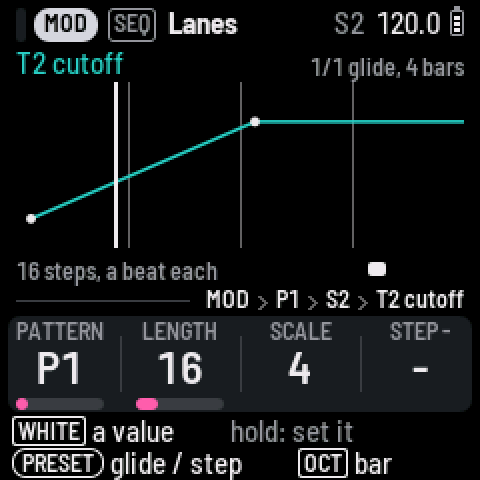
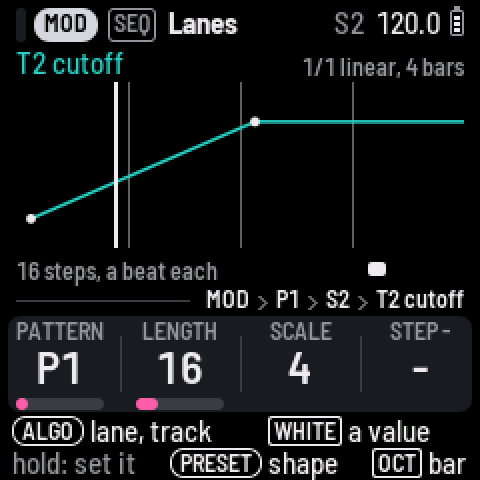
MOD: lane shapes replace glide / step (the spec's Next): step, linear (was glide), ease in, ease out, smooth. In the lane's pat byte (pattern.h LANE_SHAPE, two bits beside LANE_GLIDE: no format change; a lane saved before is linear, its glide; project.c's check lets the bits through). Played per blo

Changed region(s): [[0.0, 0.8438, 0.9688, 1.0], [0.625, 0.0938, 0.8438, 0.1875]]

diff --git a/app/pages.c b/app/pages.c
@@ -334,7 +334,7 @@ static const char *const ACTION_NAME[NACTIONS] = {
     "CLEAR", "ROTATE", "PASTE", "COPY TO EMPTY", "CLEAR BAR", "COPY SOUND", "PASTE SOUND", "COPY DRUM", "PASTE DRUM",
     "COPY SCENE", "PASTE SCENE", "DUPLICATE SLOT", "KIT FILTER", "SHIFT NOTES", "LARGE TYPE", "CC IN",
     "MOD VIEW", "CPU", "PROJ 1", "PROJ 2", "PROJ 3", "LANE", "REMOVE LANE", "CLEAR LANE", "TRACK", "PAGE", "KNOB",
-    "ADD LANE", "LEARN", "GLIDE / STEP", "TARGET TRACK", "TARGET PAGE", "TARGET KNOB", "LEARN TARGET", "FX I", "FX II", "EXTRA 1", "EXTRA 2", "EXTRA 3", "EXTRA 4"};
+    "ADD LANE", "LEARN", "SHAPE", "TARGET TRACK", "TARGET PAGE", "TARGET KNOB", "LEARN TARGET", "FX I", "FX II", "EXTRA 1", "EXTRA 2", "EXTRA 3", "EXTRA 4"};
 _Static_assert(NPROJ == 3, "GLO's list: an action a slot (A_PROJ1..A_PROJ3)");
 static const char *const CLEAR_WHAT[3] = {"notes", "locks", "notes and locks"};
 /* a pick ALGORITHM sets at once (a setting: SEL only leaves the list), as against a choice SEL then carries out */
@@ -1488,6 +1488,7 @@ static int mod_pat_now(void)
     return m ? (m - 1) % NPATT : ui.mod_pat % NPATT;
 }
 static int mod_none(void) { return !pats.scene_mod[cur_scene()]; }   /* the scene's MOD pattern "-": no lanes shown */
+static const char *const LANE_SHAPE_NAME[NLS] = {"step", "linear", "ease in", "ease out", "smooth"};   /* (LS_*) */
 static int mod_lanes_now(uint8_t *ix) { return mod_none() ? 0 : mod_lanes(pats.lane, mod_pat_now(), ix); }
 /* the step KNOB 4 sets with none held: the one last tapped on the lane picked (-1: none, or the lane or the length
  * changed since) */
@@ -2801,7 +2802,7 @@ static void page_footer(char *t)
                  : mod_none() ? "KNOB 1 a MOD pattern for this scene"
                  : mod_lane_now() < 0 ? "SEL add a lane|LEARN: SEL, then turn a knob"
                  : ui.held ? "KNOB 4 the step's value|SEL clear it"
-                 : "WHITE a value|hold: set it|PRESET glide / step|OCT bar");
+                 : "WHITE a value|hold: set it|PRESET shape|OCT bar");
         break;
     case P_THROWS:
         s_cat(t, "KEYS throw: low drums, high melodic|REC held: record");
@@ -3463,7 +3464,7 @@ static void list_mod(void)
         list_add("NO LANES YET", "add one below", LK_NOTE, 0);
     for (int i = 0; i < n; i++) {                    /* "T2 cutoff, glide" */
         mod_tgt_name(lane_mod_tgt(&pats.lane[ix[i]]), pats.lane[ix[i]].param, t);
-        s_cat(s_cat(t + s_len(t), ", "), lane_glide(&pats.lane[ix[i]]) ? "glide" : "step");
+        s_cat(s_cat(t + s_len(t), ", "), LANE_SHAPE_NAME[lane_shape(&pats.lane[ix[i]])]);
         list_add(MOD_ROW[i], t, LK_ACTION, A_MOD_LANE);
     }
     if (l >= 0) {                                    /* "this lane: 2, T2 cutoff" (the heads' face has no middle dot) */
@@ -3472,7 +3473,7 @@ static void list_mod(void)
         mod_tgt_name(lane_mod_tgt(L), L->param,
                      s_cat(num_s((uint32_t)ui.mod_lane % NMODL + 1u, s_cat(th, "this lane: ")), ", "));
         list_head(th);
-        list_add(ACTION_NAME[A_MOD_KIND], lane_glide(L) ? "glide" : "step", LK_PICK, A_MOD_KIND);
+        list_add(ACTION_NAME[A_MOD_KIND], LANE_SHAPE_NAME[lane_shape(L)], LK_PICK, A_MOD_KIND);
         list_mod_target(lane_mod_tgt(L), L->param, A_MOD_TTRK);
         list_add(ACTION_NAME[A_MOD_TLEARN], ui.mod_learn == 2 ? "turn a knob" : "a knob turned", LK_ACTION, A_MOD_TLEARN);
         list_add(ACTION_NAME[A_MOD_REMOVE], 0, LK_ACTION, A_MOD_REMOVE);
@@ -7452,11 +7453,31 @@ static void mod_curve(const lane_t *L, int len, int v0, int16_t *out)   /* each 
             ;
         if (!lane_glide(L) || q >= len)              /* a step lane, or past the last value: held (none before) */
             out[s] = (int16_t)(last >= 0 ? lv : -1);
-        else if (last < 0)                           /* a glide to the first value, from where the target is */
-            out[s] = (int16_t)(v0 + (L->val[q] - v0) * s / q);
+        else if (last < 0)                           /* moving to the first value, from where the target is */
+            out[s] = (int16_t)(v0 + (int)((float)(L->val[q] - v0) * lane_curve(lane_shape(L), (float)s / (float)q)));
         else
-            out[s] = (int16_t)(lv + (L->val[q] - lv) * (s - last) / (q - last));
+            out[s] = (int16_t)(lv + (int)((float)(L->val[q] - lv) * lane_curve(lane_shape(L), (float)(s - last) /
+                                                                                   (float)(q - last))));
     }
+}
+/* a moving lane's value at p (steps, a step's centre at its index: between them, in its shape; mod_curve's) */
+static float mod_curve_at(const lane_t *L, int len, int v0, float p)
+{
+    int a, q, la;
+    float va;
+    if (p < 0.0f)
+        p = 0.0f;
+    a = (int)p;
+    for (la = a; la >= 0 && L->val[la] == LOCK_NONE; la--)
+        ;
+    for (q = a + 1; q < len && L->val[q] == LOCK_NONE; q++)
+        ;
+    va = la >= 0 ? (float)L->val[la] : (float)v0;
+    if (q >= len)                                    /* (past the last value: held) */
+        return va;
+    if (la < 0)
+        la = 0;
+    return va + ((float)L->val[q] - va) * lane_curve(lane_shape(L), (p - (float)la) / (float)(q - la));
 }
 /* the pattern's length in bars ("32 bars", "1 bar"), else beats ("3 beats"), else sixteenths */
 static void mod_len_text(int six, char *t)
@@ -7527,7 +7548,7 @@ static void draw_mod(void)
         mod_tgt_name(tg, L->param, t);
         cv_text(gx, 0, LY(&FONT_S, &LFONT_S), t, ink);
         e = num_s((uint32_t)ui.mod_lane % NMODL + 1u, t);
-        e = s_cat(num_s((uint32_t)n, s_cat(e, "/")), lane_glide(L) ? " glide, " : " step, ");
+        e = s_cat(s_cat(s_cat(num_s((uint32_t)n, s_cat(e, "/")), " "), LANE_SHAPE_NAME[lane_shape(L)]), ", ");
         mod_len_text(len * six, e);
         text_r(gx + gw, LY(2, 0), F_CAP, t, K_DIM);
     }
@@ -7548,9 +7569,19 @@ static void draw_mod(void)
                 continue;
             }
             if (px >= 0.0f) {
-                if (lane_glide(L))
-                    cv_linef(px, py, x, y, ink, 1.6f);
-                else {                               /* stairs: along, then up or down at the step */
+                if (lane_glide(L)) {                 /* its shape: a point every 2 pixels */
+                    float qx = px, qy = py;
+                    for (float sx = px + 2.0f; qx < x; sx += 2.0f) {
+                        const float ex = sx < x ? sx : x, p = (ex - (float)gx) * (float)len / (float)gw - 0.5f;
+                        const float ey = ex < x ? (float)(gy + gh) - (fm_clampf(mod_curve_at(L, len, v0, p), (float)lo,
+                                                                                (float)hi) - (float)lo) * (float)gh /
+                                                                       (float)span
+                                                : y;
+                        cv_linef(qx, qy, ex, ey, ink, 1.6f);
+                        qx = ex;
+                        qy = ey;
+                    }
+                } else {                             /* stairs: along, then up or down at the step */
                     cv_linef(px, py, x - (float)gw / (float)len * 0.5f, py, ink, 1.6f);
                     cv_linef(x - (float)gw / (float)len * 0.5f, py, x - (float)gw / (float)len * 0.5f, y, ink, 1.6f);
                     cv_linef(x - (float)gw / (float)len * 0.5f, y, x, y, ink, 1.6f);

diff --git a/app/ui.c b/app/ui.c
@@ -2514,14 +2514,15 @@ static void mod_edited(void)                     /* a lane's values or kind, the
     seq.mod_edit = 1;                            /* (the engine plans the lanes again from where they are) */
     mark_dirty();
 }
-static void mod_set_glide(int l, int glide)      /* lane l (a pool index): glide or step */
+static void mod_set_shape(int l, int sh)         /* lane l (a pool index): its shape (LS_*) */
 {
+    static const char *const SAY[NLS] = {"STEP", "LINEAR", "EASE IN", "EASE OUT", "SMOOTH"};
     char t[24];
-    if (lane_glide(&pats.lane[l]) == (glide != 0))
+    if (sh < 0 || sh >= NLS || lane_shape(&pats.lane[l]) == sh)
         return;
-    pats.lane[l].pat = (uint8_t)((pats.lane[l].pat & ~LANE_GLIDE) | (glide ? LANE_GLIDE : 0u));
+    pats.lane[l].pat = (uint8_t)((pats.lane[l].pat & ~(LANE_GLIDE | LANE_SHAPE)) | lane_shape_bits(sh));
     mod_tgt_name(lane_mod_tgt(&pats.lane[l]), pats.lane[l].param, t);
-    say(glide ? "GLIDE" : "STEP", t);
+    say(SAY[sh], t);
     mod_edited();
 }
 /* lane l (a pool index) to target (tg, p): its steps and values kept, clamped to the target's range; the old target
@@ -2720,7 +2721,7 @@ static void mod_select_lane(int l)               /* lane l (a pool index) the on
 /* a lane on the pattern edited for target (tg, p): ADD LANE's, or LEARN's; 1 = added */
 static int mod_add(int tg, int p)
 {
-    const int l = mod_lane_add(pats.lane, mod_pat_now(), tg, p, 1);
+    const int l = mod_lane_add(pats.lane, mod_pat_now(), tg, p, LS_SMOOTH);   /* (a new lane: smooth) */
     char t[24];
     if (l == -2) {
         say_no("EIGHT LANES", "a pattern has no more");
@@ -2981,12 +2982,13 @@ static void presets(int32_t e)
         break;
     case P_THROWS: case P_WEAVE:
         break;
-    case P_MOD: {                                /* the lane picked: glide or step, in turn */
+    case P_MOD: {                                /* the lane picked: its next shape (round: step, linear, ease in,
+                                                  * ease out, smooth) */
         const int l = mod_lane_now();
         if (l < 0)
             say_no("NO LANE", mod_none() ? "KNOB 1 picks a pattern" : "SEL to add one");
         else
-            mod_set_glide(l, !lane_glide(&pats.lane[l]));
+            mod_set_shape(l, (lane_shape(&pats.lane[l]) + (d < 0 ? NLS - 1 : 1)) % NLS);
         break;
     }
     default:
@@ -3147,10 +3149,11 @@ static void list_change_do(int32_t e)
             break;
         }
         case A_PASTE: ui.pick_paste = (uint8_t)(d > 0); break;
-        case A_MOD_KIND: {                       /* the lane picked: glide (right) or step (left) */
+        case A_MOD_KIND: {                       /* the lane picked: its shape, the next (right) or the one before
+                                                  * (left), stopping at the ends */
             const int l = mod_lane_now();
             if (l >= 0)
-                mod_set_glide(l, d > 0);
+                mod_set_shape(l, clampi(lane_shape(&pats.lane[l]) + (d > 0 ? 1 : -1), 0, NLS - 1));
             break;
         }
         case A_MOD_TTRK: case A_MOD_TPG: case A_MOD_TKNOB:   /* the lane picked to another target */
@@ -5055,7 +5058,9 @@ static void sp_main(void)
         }
         mod_tgt_name(lane_mod_tgt(&pats.lane[l]), pats.lane[l].param, t);
         sp_text(t);
-        sp_cat(lane_glide(&pats.lane[l]) ? ", glide, values on: " : ", step, values on: ");
+        sp_cat(", ");
+        sp_cat(LANE_SHAPE_NAME[lane_shape(&pats.lane[l])]);
+        sp_cat(", values on: ");
         for (int s = 0; s < pats.mod[mod_pat_now()].len; s++)
             if (pats.lane[l].val[s] != LOCK_NONE && n < 16) {
                 if (n++)

diff --git a/app/seq/pattern.h b/app/seq/pattern.h
@@ -212,13 +212,16 @@ static inline int hit_plain(const hit_t *h) { return !h->cond && !h->comp && !h-
  * scene's mute, the sequencer's). Its 8 patterns are a length and a scale each (a step a sixteenth .. a bar: TS_1 ..
  * TS_16); a scene picks one or none (patterns_t scene_mod: 0 none, "-"; 1..8). Its lanes are the pool's (lane_t): trk
  * LANE_MOD + the target's track (0..NALLTRK-1, or MODT_MST: the master's values, fx.h MS_*), pat the MOD pattern |
- * LANE_GLIDE (glide: ramp to the next value; else step), param the target's TP_* (or MS_*), val[] a value a step
+ * its shape (LANE_GLIDE: it moves to the next value, LANE_SHAPE how; else a step lane), param the target's TP_* (or MS_*), val[] a value a step
  * (LOCK_NONE none). Up to NMODL lanes a pattern, in the pool's order. seq.c plays them (mod_*) */
 #define AUX_MOD NALLTRK
 #define MOD_BIT NSEQT
 #define LANE_MOD 0x40u
 #define MODT_MST NALLTRK
 #define LANE_GLIDE 0x80u
+#define LANE_SHAPE 0x30u              /* a moving lane's shape (LANE_GLIDE set): LS_LINEAR + its two bits (a lane saved
+                                       * before shapes: linear, its glide) */
+enum { LS_STEP, LS_LINEAR, LS_EASE_IN, LS_EASE_OUT, LS_SMOOTH, NLS };   /* a MOD lane's shape between its values */
 #define NMODL 8
 typedef struct {
     uint8_t len;                      /* steps 1..64 */
@@ -227,7 +230,18 @@ typedef struct {
 static inline int lane_is_mod(const lane_t *l) { return l->trk >= LANE_MOD && l->trk <= LANE_MOD + MODT_MST; }
 static inline int lane_mod_tgt(const lane_t *l) { return l->trk - (int)LANE_MOD; }   /* its target's track (MODT_MST) */
 static inline int lane_mod_pat(const lane_t *l) { return l->pat & 7; }
-static inline int lane_glide(const lane_t *l) { return (l->pat & LANE_GLIDE) != 0; }
+static inline int lane_glide(const lane_t *l) { return (l->pat & LANE_GLIDE) != 0; }   /* (any shape but step) */
+static inline int lane_shape(const lane_t *l) { return lane_glide(l) ? LS_LINEAR + ((l->pat & LANE_SHAPE) >> 4) : LS_STEP; }
+/* a shape over x 0..1 (its share of the way from one value to the next): ease in x^2, ease out 1 - (1 - x)^2, smooth
+ * x^2 (3 - 2x), linear x */
+static inline float lane_curve(int sh, float x)
+{
+    return sh == LS_EASE_IN ? x * x : sh == LS_EASE_OUT ? x * (2.0f - x) : sh == LS_SMOOTH ? x * x * (3.0f - 2.0f * x) : x;
+}
+static inline uint8_t lane_shape_bits(int sh)  /* a shape's bits in pat */
+{
+    return sh <= LS_STEP || sh >= NLS ? 0u : (uint8_t)(LANE_GLIDE | (unsigned)(sh - LS_LINEAR) << 4);
+}
 
 /* the whole pattern store: the project's (in the pool) */
 typedef struct {
@@ -244,8 +258,8 @@ void modpats_init(patterns_t *P);     /* the MOD track empty: 16 steps a sixteen
 /* a MOD pattern's lanes (up to NMODL, in the pool's order): their indexes into out, the count */
 int mod_lanes(const lane_t *L, int pat, uint8_t *out);
 int mod_lane_find(const lane_t *L, int pat, int tgt, int param);   /* -1 none */
-/* a lane for target (tgt, param) on MOD pattern pat: -1 the pool full, -2 the pattern has NMODL already */
-int mod_lane_add(lane_t *L, int pat, int tgt, int param, int glide);
+/* a lane for target (tgt, param) on MOD pattern pat, of shape LS_*: -1 the pool full, -2 the pattern has NMODL already */
+int mod_lane_add(lane_t *L, int pat, int tgt, int param, int shape);
 /* MOD lane k to another target (its pattern, kind, steps and values kept: the caller clamps them), in its place: the
  * interrupt sees the slot go and come back as a new generation (the old target let go, as a lane removed). -1: its
  * pattern already has a lane on that target */

diff --git a/app/host.c b/app/host.c
@@ -817,6 +817,11 @@ static int expect_more(const char *what, const char *a, const char *b, const cha
     } else if (!strcmp(what, "modlanes")) {        /* expect modlanes PAT N: the lanes of MOD pattern PAT */
         uint8_t ix[NMODL];
         host_fails += expect_val(what, mod_lanes(pats.lane, (atoi(a) - 1) & (NPATT - 1), ix), b);
+    } else if (!strcmp(what, "modshape")) {        /* expect modshape PAT I V: lane I's (from 1) shape (LS_*: 0 step,
+                                                     * 1 linear, 2 ease in, 3 ease out, 4 smooth) */
+        uint8_t ix[NMODL];
+        int nl = mod_lanes(pats.lane, (atoi(a) - 1) & (NPATT - 1), ix), i = atoi(b) - 1;
+        host_fails += expect_val(what, i >= 0 && i < nl ? lane_shape(&pats.lane[ix[i]]) : -1, c);
     } else if (!strcmp(what, "modglide")) {        /* expect modglide PAT I V: lane I's (from 1) glide (1) or step (0) */
         uint8_t ix[NMODL];
         int nl = mod_lanes(pats.lane, (atoi(a) - 1) & (NPATT - 1), ix), i = atoi(b) - 1;
@@ -1581,16 +1586,22 @@ static int song_cmd(const char *cmd)
                 host_die("no MOD scale (1 2 3 4 5 6 8 16)", w[3]);
             pats.mod[pt].scale = (uint8_t)k;
         }
-    } else if (!strcmp(cmd, "modlane")) {           /* modlane PAT TARGET PARAM glide|step */
-        int pt = atoi(w[1]) - 1, tg, pm, l, gl;
-        if (n < 5 || pt < 0 || pt >= NPATT || (strcmp(w[4], "glide") && strcmp(w[4], "step")))
-            host_die("modlane PAT TARGET PARAM glide|step", "");
+    } else if (!strcmp(cmd, "modlane")) {           /* modlane PAT TARGET PARAM SHAPE: step, linear (or glide),
+                                                     * ease_in, ease_out, smooth */
+        static const char *const SH[NLS] = {"step", "linear", "ease_in", "ease_out", "smooth"};
+        int pt = atoi(w[1]) - 1, tg, pm, l, sh = -1;
+        for (int i = 0; n >= 5 && i < NLS; i++)
+            if (!strcmp(w[4], SH[i]))
+                sh = i;
+        if (n >= 5 && !strcmp(w[4], "glide"))
+            sh = LS_LINEAR;
+        if (n < 5 || pt < 0 || pt >= NPATT || sh < 0)
+            host_die("modlane PAT TARGET PARAM step|linear|glide|ease_in|ease_out|smooth", "");
         mod_target(w[2], w[3], &tg, &pm);
-        gl = !strcmp(w[4], "glide");
-        l = mod_lane_add(pats.lane, pt, tg, pm, gl);
+        l = mod_lane_add(pats.lane, pt, tg, pm, sh);
         if (l < 0)
             host_die(l == -2 ? "eight lanes a MOD pattern" : "the lanes are full", "");
-        pats.lane[l].pat = (uint8_t)(pt | (gl ? LANE_GLIDE : 0u));
+        pats.lane[l].pat = (uint8_t)(pt | lane_shape_bits(sh));
     } else if (!strcmp(cmd, "modval")) {            /* modval PAT TARGET PARAM S V [S V ...] */
         int pt = atoi(w[1]) - 1, tg, pm, l;
         if (n < 6 || pt < 0 || pt >= NPATT)

diff --git a/app/seq/seq.c b/app/seq/seq.c
@@ -1334,7 +1334,14 @@ static void locks_tick(seq_t *s, uint32_t k, const seq_sink_t *o)
             r->ramp = 0;
         } else if (r->age > r->hold && r->len > r->hold) {
             int num = (int)((r->age - r->hold) >> 4), den = (int)((r->len - r->hold) >> 4);   /* samples >> 4: the product stays in an int */
-            int v = (int)r->from + ((int)r->to - (int)r->from) * num / (den > 0 ? den : 1);
+            const int sh = lane_is_mod(l) ? lane_shape(l) : LS_LINEAR;
+            int v;
+            if (den < 1)
+                den = 1;
+            if (sh <= LS_LINEAR)
+                v = (int)r->from + ((int)r->to - (int)r->from) * num / den;
+            else                          /* a MOD lane's curve over the time left (lane_curve) */
+                v = (int)r->from + (int)((float)((int)r->to - (int)r->from) * lane_curve(sh, (float)num / (float)den));
             lock_put(s, l->trk, l, r, v, o);
         }
     }

diff --git a/app/seq/pattern.c b/app/seq/pattern.c
@@ -72,7 +72,7 @@ int mod_lane_find(const lane_t *L, int pat, int tgt, int param)
             return k;
     return -1;
 }
-int mod_lane_add(lane_t *L, int pat, int tgt, int param, int glide)
+int mod_lane_add(lane_t *L, int pat, int tgt, int param, int shape)
 {
     uint8_t ix[NMODL];
     int k = mod_lane_find(L, pat, tgt, param);
@@ -80,7 +80,7 @@ int mod_lane_add(lane_t *L, int pat, int tgt, int param, int glide)
         return k;
     if (mod_lanes(L, pat, ix) >= NMODL)
         return -2;
-    return lane_alloc(L, (int)LANE_MOD + tgt, pat | (glide ? (int)LANE_GLIDE : 0), param);
+    return lane_alloc(L, (int)LANE_MOD + tgt, pat | lane_shape_bits(shape), param);
 }
 
 int mod_lane_retarget(lane_t *L, int k, int tgt, int param)

diff --git a/app/project.c b/app/project.c
@@ -581,7 +581,7 @@ static void patterns_clamp(void)
         lane_t *l = &pats.lane[k];
         if (l->used && lane_is_mod(l)) {             /* a MOD lane: its target a track's parameter or the master's */
             int tg = lane_mod_tgt(l), st;
-            if ((tg == MODT_MST ? l->param >= NMS : l->param >= NTP) || (l->pat & ~(LANE_GLIDE | 7u)))
+            if ((tg == MODT_MST ? l->param >= NMS : l->param >= NTP) || (l->pat & ~(LANE_GLIDE | LANE_SHAPE | 7u)))
                 l->used = 0;
             else
                 for (st = 0; st < NSTEP; st++) {

diff --git a/docs/MANUAL.md b/docs/MANUAL.md
@@ -108,8 +108,8 @@ second.
 - **Trick**: something a step does as it plays, such as pulse, hold, multiply, flam or jump. There are fifteen,
   and a step can have two: hold it and press ARP.
 - **Lock**: a knob value that a step sets as it plays.
-- **Lane**: a knob moved by the MOD track over many bars, with a value on the steps you choose. It glides from one
-  value to the next, or steps.
+- **Lane**: a knob moved by the MOD track over many bars, with a value on the steps you choose. It moves from one
+  value to the next in a shape (linear, ease in, ease out, smooth), or steps.
 - **Scene** (S1 to S32): which pattern each track plays, plus the mutes (a kit's individual sounds too) and the
   conductor's key.
 - **Song**: a chain of scenes, each played for a number of bars.
@@ -222,7 +222,7 @@ Count the white keys 1 to 16 from the left, and the black keys 1 to 11. "Hold **
 | **OCT−** / **OCT+** | Move the keys an octave. On Steps, they show the bar before or after (with **SEQ** held, they move the pattern an octave), and with a step held, they nudge it. In step record, they move the cursor. On Arrange and Song, they put scenes 1 to 16 or 17 to 32 on the white keys. |
 | **SELECT** | Turns to a button's next page. In a list, it moves up and down. |
 | **ALGORITHM** | Picks the track. On the MOD track's Lanes page, it picks the lane first. In a list, it changes the row's value. |
-| **PRESETS** | Steps to the next item of whatever the page shows: a preset, a drum key, an effect (it stops at the list's first and last), a pattern, a drum sound, a scene. On the MOD track's Lanes page, it switches the lane between glide and step. |
+| **PRESETS** | Steps to the next item of whatever the page shows: a preset, a drum key, an effect (it stops at the list's first and last), a pattern, a drum sound, a scene. On the MOD track's Lanes page, it steps the lane to its next shape. |
 | **KNOB 1–4** | Set the four values at the bottom of the screen. Hold **HOME** and turn one to put it back to its default (see below). |
 
 Hold any button for a second, and a card explains it. The two lines at the bottom of the screen always say
@@ -1550,14 +1550,14 @@ none, the page says so: turn **KNOB 1** to pick a pattern for the scene, and its
 lane you picked as a line in its knob's colour (a track's colour; the master, FX I and FX II in white) over the
 pattern's steps, with its values as dots and the playhead. Under it, the grid follows the scale: at a sixteenth a
 step, a tick on each beat and a line on each bar; at a beat a step, a line on each bar; at a bar a step, a tick on
-each bar and a line every four bars. The top right says which lane it is, glide or step, and the pattern's length
-("1/2 glide, 32 bars"). **ALGORITHM** picks the lane. Turn it past the last lane (or the first) to go on to the next
+each bar and a line every four bars. The top right says which lane it is, its shape, and the pattern's length
+("1/2 smooth, 32 bars"). **ALGORITHM** picks the lane. Turn it past the last lane (or the first) to go on to the next
 track.
 
-<img src="img/screen-mod.png" width="240" alt="The MOD track's Lanes page: T2 cutoff in T2's colour, a glide from step 1 to step 9 then held, a line on each bar, the playhead at step 4, 1/1 glide, 4 bars; KNOB 1 P1, KNOB 2 16 steps, KNOB 3 4 (a beat a step), KNOB 4 STEP and a dash: no step tapped yet" title="A lane">
+<img src="img/screen-mod.png" width="240" alt="The MOD track's Lanes page: T2 cutoff in T2's colour, a linear lane from step 1 to step 9 then held, a line on each bar, the playhead at step 4, 1/1 linear, 4 bars; KNOB 1 P1, KNOB 2 16 steps, KNOB 3 4 (a beat a step), KNOB 4 STEP and a dash: no step tapped yet" title="A lane">
 
-**Add a lane.** Press **SEL**. Its list has three parts: "lanes" (each lane, with its knob and glide or step: press
-**SEL** on one to pick it), "this lane" (the lane you picked, named: its GLIDE / STEP, its target, REMOVE LANE and
+**Add a lane.** Press **SEL**. Its list has three parts: "lanes" (each lane, with its knob and its shape: press
+**SEL** on one to pick it), "this lane" (the lane you picked, named: its SHAPE, its target, REMOVE LANE and
 CLEAR LANE) and "new lane". Under "new lane", pick the TRACK (T1 to T8, FX I, FX II or master), the PAGE and
 the KNOB with **ALGORITHM**, as you would find the knob on its own page, then pick ADD LANE. Or pick LEARN and turn
 the knob you mean, on any page: it becomes the lane, and the Lanes page comes back. A lane can move any knob of a
@@ -1576,17 +1576,20 @@ held, **KNOB 4** sets the step you tapped last (it is outlined, and the knob rea
 **KNOB 4** only ever sets the lane's values: it never moves the knob itself, which you play on its own page. With
 steps held, **SEL** takes their values off.
 
-**Glide or step.** On the Lanes page, turn **PRESETS** to switch the lane between glide and step. In the **SEL**
-list, it is the GLIDE / STEP row under "this lane": turn **ALGORITHM** right for glide, left for step. A glide moves from each value to the
-next one over the steps between. A step lane jumps at each value. After the last value, the knob stays there until
-the pattern comes round. Before the first value, a step lane leaves the knob alone, and a glide moves there from
-wherever the knob is. Change a value while the lane plays and it follows at once: the glide goes from where the knob
-is now to the new next value.
+**Shape.** How the lane goes from one value to the next: **step** (it jumps at each value), **linear** (an even
+line), **ease in** (slow, then fast), **ease out** (fast, then slow) or **smooth** (slow at both ends, an S). A new
+lane starts smooth; a lane from a project saved before shapes is linear (it was a glide). On the Lanes page, turn
+**PRESETS** for the next shape (after smooth comes step again), and the curve on the screen takes it. In the **SEL**
+list, it is the SHAPE row under "this lane": turn **ALGORITHM** to go through them. A moving shape goes from each value
+to the next over the steps between. After the last value, the knob stays there until the pattern comes round. Before
+the first value, a step lane leaves the knob alone, and the others move there from wherever the knob is. Change a
+value while the lane plays and it follows at once: it goes from where the knob is now to the new next value, in its
+shape.
 
 **Record it.** While it plays, hold **REC** on Lanes and turn **KNOB 4**: the knob's moves are written on the steps
 as they play.
 
-**What you see.** While a lane holds a knob, the knob shows the value playing, moving with the glide, wherever it is
+**What you see.** While a lane holds a knob, the knob shows the value playing, moving with the lane, wherever it is
 drawn (the knob's page, the Master filter's curves, an effect's picture, Mix), with a thin tick on its bar where the
 knob itself is set. This is part of MOD VIEW: with MOD VIEW off, the knob shows its own value and the value playing is
 a red dot, as a lock's.

diff --git a/docs/superpowers/specs/2026-11-26-mod-track-design.md b/docs/superpowers/specs/2026-11-26-mod-track-design.md
@@ -99,6 +99,10 @@ commit and the manual's credits.
   hand takeover stays on the parameter's own page.
 - **Takeover** (the user): on the parameter's own page, as it is (until the lane's next value); from the MOD page,
   never (KNOB 4 there edits the lane only).
+- **Built 2026-11-26** (shapes): in the lane's pat byte (pattern.h LANE_SHAPE, two bits beside LANE_GLIDE: no format
+  change; old lanes linear); the curves pattern.h lane_curve (ease in x^2, ease out 1-(1-x)^2, smooth x^2(3-2x)),
+  per block in locks_tick over the ramp's time left (linear the old integer path, bit for bit); PRESETS round, SEL's
+  SHAPE stops at the ends; the curve drawn every 2 pixels.
 - **Lane shapes** replace glide / step: step, linear (was glide), ease in, ease out, smooth (S); PRESETS on Lanes cycles
   them, the curve drawn in its shape, SEL's "this lane" shows SHAPE; a new lane starts smooth; older lanes keep theirs
   (glide = linear). Per block, as the glide now.
